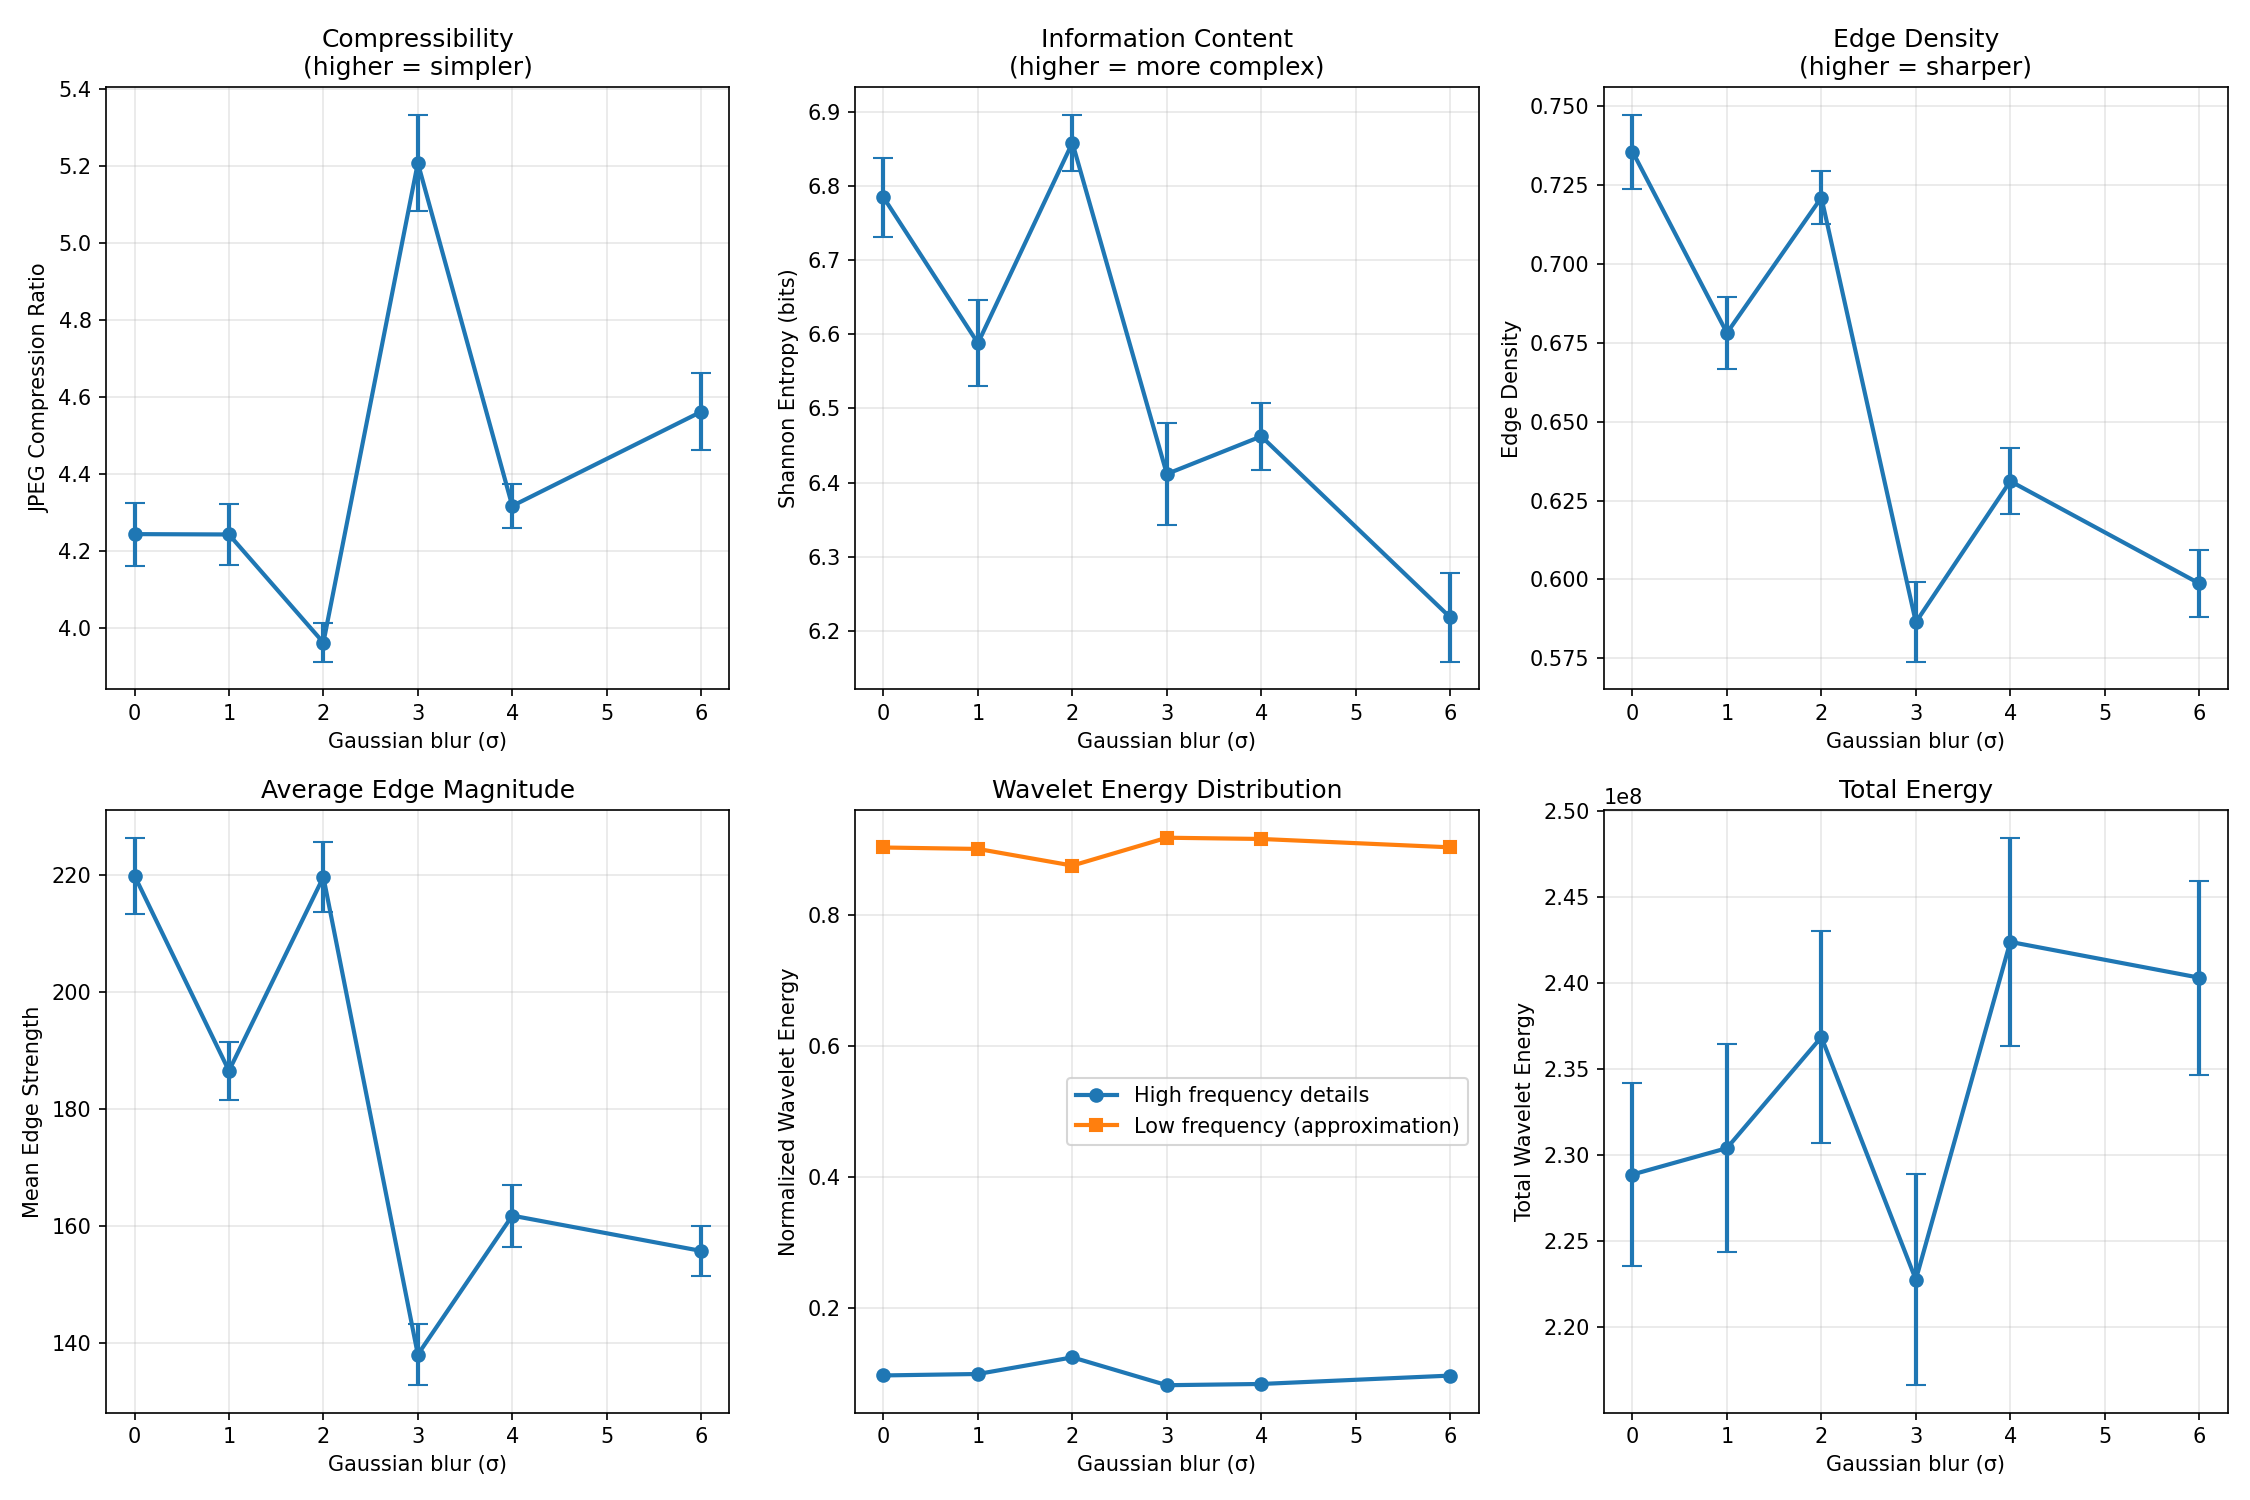
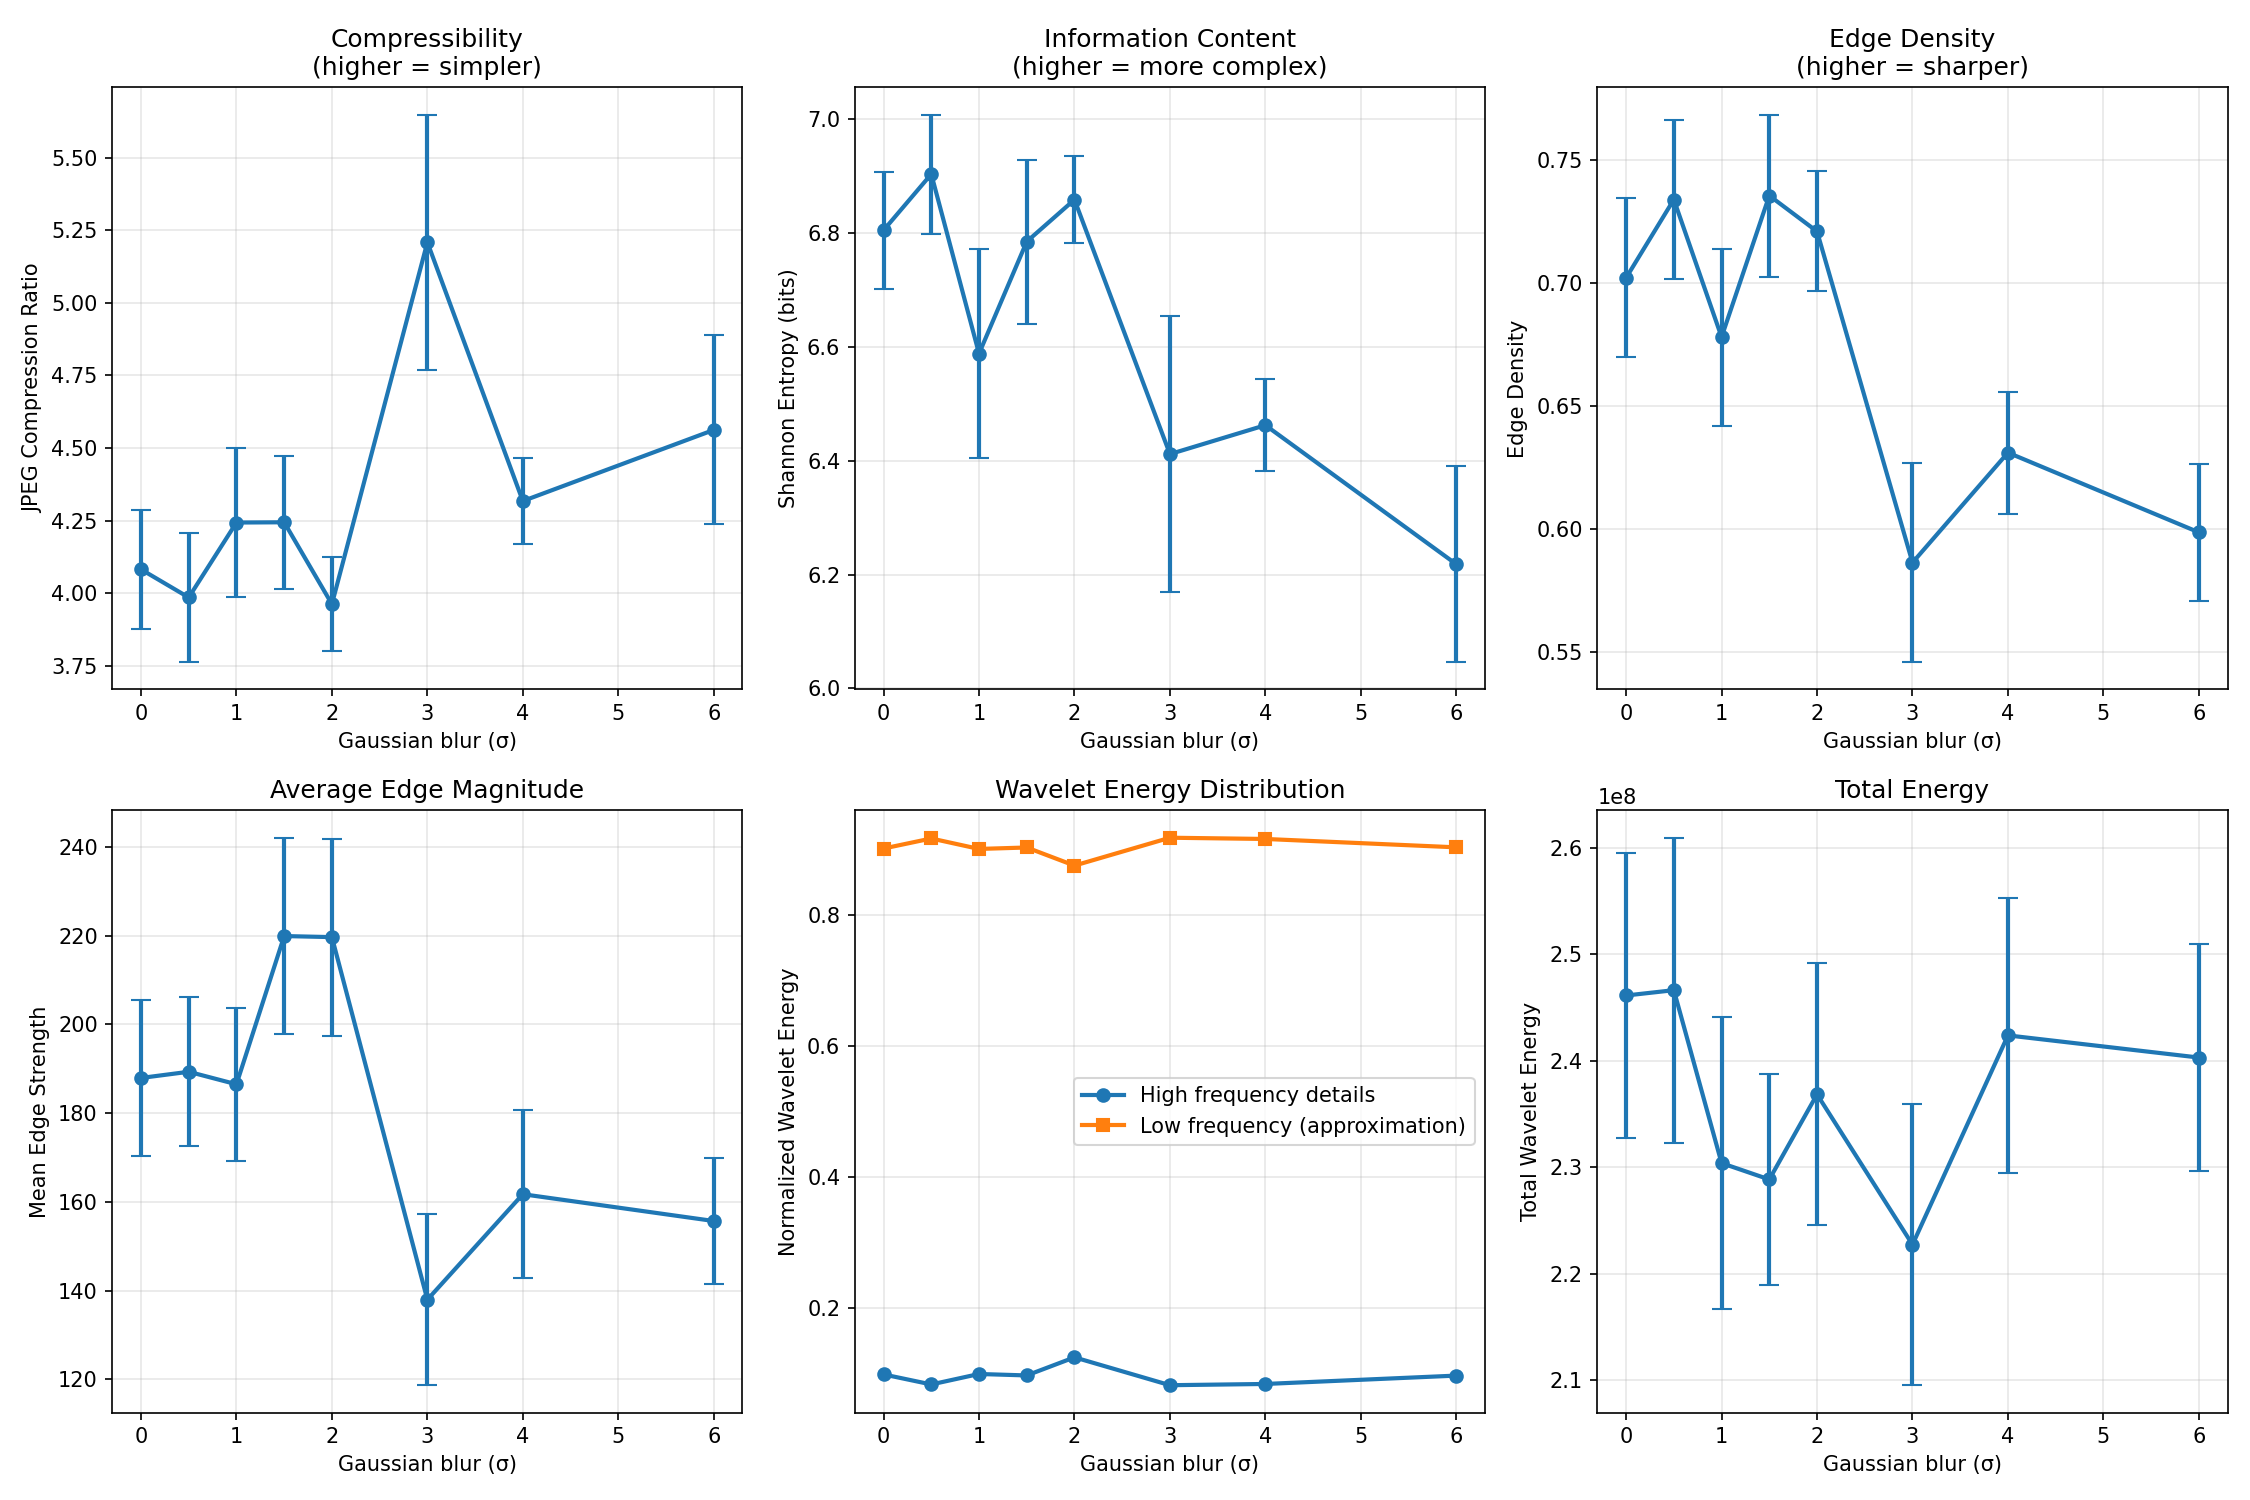
updating reports and bootstrapping

diff --git a/inner_fvis/analyze_patch_spectra.py b/inner_fvis/analyze_patch_spectra.py
@@ -316,7 +316,8 @@ def analyze_patch_complexity(image):
     
     return results
 
-def aggregate_complexity_measures(complexity_list, use_bootstrap=True, n_bootstrap=1000):
+def aggregate_complexity_measures(complexity_list, use_bootstrap=True, n_bootstrap=1000, 
+                                 neuron_grouped=None):
     """
     Aggregate complexity measures across multiple patches.
     
@@ -324,6 +325,9 @@ def aggregate_complexity_measures(complexity_list, use_bootstrap=True, n_bootstr
         complexity_list: List of complexity dictionaries from analyze_patch_complexity
         use_bootstrap: If True, use bootstrap SEM; if False, use traditional SEM
         n_bootstrap: Number of bootstrap iterations
+        neuron_grouped: Optional list of lists, where each sublist contains complexity measures
+                       from patches of a single neuron. If provided, bootstrap resampling
+                       is done at the neuron level (more conservative).
     
     Returns:
         Dictionary with mean and SEM of each measure
@@ -339,8 +343,17 @@ def aggregate_complexity_measures(complexity_list, use_bootstrap=True, n_bootstr
         values = np.array([c[key] for c in complexity_list])
         summary[f'{key}_mean'] = np.mean(values)
         
-        if use_bootstrap:
-            # Bootstrap SEM
+        if use_bootstrap and neuron_grouped is not None:
+            # Neuron-level bootstrap: resample neurons, not individual patches
+            # This accounts for correlation within neurons
+            boot_sem, ci_lower, ci_upper = bootstrap_neuron_level(
+                neuron_grouped, key, n_bootstrap=n_bootstrap
+            )
+            summary[f'{key}_sem'] = boot_sem
+            summary[f'{key}_ci_lower'] = ci_lower
+            summary[f'{key}_ci_upper'] = ci_upper
+        elif use_bootstrap:
+            # Patch-level bootstrap (original method, likely underestimates SE)
             boot_sem, ci_lower, ci_upper = bootstrap_sem(values.reshape(-1, 1), n_bootstrap=n_bootstrap)
             summary[f'{key}_sem'] = boot_sem[0]
             summary[f'{key}_ci_lower'] = ci_lower[0]
@@ -358,7 +371,17 @@ def aggregate_complexity_measures(complexity_list, use_bootstrap=True, n_bootstr
         values = np.array([c['wavelet_energy_distribution'][wkey] for c in complexity_list])
         summary[f'wavelet_{wkey}_mean'] = np.mean(values)
         
-        if use_bootstrap:
+        if use_bootstrap and neuron_grouped is not None:
+            # Neuron-level bootstrap
+            boot_sem, ci_lower, ci_upper = bootstrap_neuron_level(
+                neuron_grouped, f'wavelet_{wkey}', n_bootstrap=n_bootstrap, 
+                is_wavelet=True
+            )
+            summary[f'wavelet_{wkey}_sem'] = boot_sem
+            summary[f'wavelet_{wkey}_ci_lower'] = ci_lower
+            summary[f'wavelet_{wkey}_ci_upper'] = ci_upper
+        elif use_bootstrap:
+            # Patch-level bootstrap
             boot_sem, ci_lower, ci_upper = bootstrap_sem(values.reshape(-1, 1), n_bootstrap=n_bootstrap)
             summary[f'wavelet_{wkey}_sem'] = boot_sem[0]
             summary[f'wavelet_{wkey}_ci_lower'] = ci_lower[0]
@@ -369,6 +392,59 @@ def aggregate_complexity_measures(complexity_list, use_bootstrap=True, n_bootstr
         summary[f'wavelet_{wkey}_std'] = np.std(values)
     
     return summary
+
+def bootstrap_neuron_level(neuron_grouped, measure_key, n_bootstrap=1000, 
+                           confidence=95, is_wavelet=False):
+    """
+    Bootstrap resampling at the neuron level to account for within-neuron correlation.
+    
+    Args:
+        neuron_grouped: List of lists, where each sublist contains complexity measures
+                       from patches of a single neuron
+        measure_key: The key of the measure to bootstrap (e.g., 'entropy')
+        n_bootstrap: Number of bootstrap iterations
+        confidence: Confidence level for intervals (default 95%)
+        is_wavelet: If True, extract from wavelet_energy_distribution
+    
+    Returns:
+        bootstrap_sem: Standard error of the mean from bootstrap
+        ci_lower: Lower confidence interval
+        ci_upper: Upper confidence interval
+    """
+    n_neurons = len(neuron_grouped)
+    bootstrap_means = []
+    
+    # Perform bootstrap resampling at neuron level
+    for _ in range(n_bootstrap):
+        # Resample neurons with replacement
+        neuron_indices = np.random.choice(n_neurons, size=n_neurons, replace=True)
+        
+        # Collect all patches from the resampled neurons
+        bootstrap_values = []
+        for idx in neuron_indices:
+            neuron_patches = neuron_grouped[idx]
+            for patch_measure in neuron_patches:
+                if is_wavelet:
+                    # Extract wavelet key (remove 'wavelet_' prefix)
+                    wkey = measure_key.replace('wavelet_', '')
+                    bootstrap_values.append(patch_measure['wavelet_energy_distribution'][wkey])
+                else:
+                    bootstrap_values.append(patch_measure[measure_key])
+        
+        # Calculate mean for this bootstrap sample
+        bootstrap_means.append(np.mean(bootstrap_values))
+    
+    bootstrap_means = np.array(bootstrap_means)
+    
+    # Calculate bootstrap SEM
+    bootstrap_sem = np.std(bootstrap_means)
+    
+    # Calculate confidence intervals
+    alpha = (100 - confidence) / 2
+    ci_lower = np.percentile(bootstrap_means, alpha)
+    ci_upper = np.percentile(bootstrap_means, 100 - alpha)
+    
+    return bootstrap_sem, ci_lower, ci_upper
 
 def analyze_neuron_patches(base_dir, neuron_idx, output_dir=None):
     """
@@ -915,12 +991,19 @@ def compare_models_complexity(model_dirs, model_names=None, neuron_indices=None,
     
     # Extract g values for x-axis
     g_values = []
-    for name in model_names:
-        g_str = extract_g_value(name)
+    for i, model_dir in enumerate(model_dirs):
+        # Extract from directory path, not from model_names which might be simple strings
+        model_path_name = Path(model_dir).parent.name
+        g_str = extract_g_value(model_path_name)
         try:
             g_val = float(g_str)
         except (ValueError, TypeError):
-            g_val = 0.0
+            # Fallback: if model_names was passed as simple strings like '0pt5'
+            g_str_fallback = model_names[i].replace('pt', '.')
+            try:
+                g_val = float(g_str_fallback)
+            except (ValueError, TypeError):
+                g_val = 0.0
         g_values.append(g_val)
     
     # Collect complexity measures for each model
@@ -937,18 +1020,28 @@ def compare_models_complexity(model_dirs, model_names=None, neuron_indices=None,
         else:
             indices = neuron_indices
         
-        # Collect all complexity measures
+        # Collect complexity measures grouped by neuron
+        # This preserves the hierarchical structure for neuron-level bootstrap
+        neuron_grouped_measures = []
         all_measures = []
         for neuron_idx in indices:
             try:
                 results = analyze_neuron_patches(model_dir, neuron_idx)
-                all_measures.extend(results['complexity_measures'])
+                neuron_measures = results['complexity_measures']
+                neuron_grouped_measures.append(neuron_measures)
+                all_measures.extend(neuron_measures)
             except FileNotFoundError:
                 continue
         
         # Aggregate across all patches and neurons
+        # Pass neuron_grouped to enable neuron-level bootstrap
         if all_measures:
-            agg = aggregate_complexity_measures(all_measures)
+            agg = aggregate_complexity_measures(
+                all_measures, 
+                use_bootstrap=True, 
+                n_bootstrap=1000,
+                neuron_grouped=neuron_grouped_measures
+            )
             model_complexities[g_val] = agg
     
     # Sort by g value for plotting

diff --git a/inner_fvis/ANALYSIS_REPORT.md b/inner_fvis/ANALYSIS_REPORT.md
@@ -11,11 +11,12 @@ This report analyzes how training ResNet-50 models with different levels of Gaus
 **Section 1: Feature Visualizations**
 - Figure 1.1: Layer 3.2 Neuron Features Across Blur Levels
 - Figure 1.2: Layer 4.2 Neuron Features Across Blur Levels
-- Figure 1.3: Representative Individual Neurons
+- Figure 1.3a: Representative Neurons - Layer 2.2 (Early Features)
+- Figure 1.3b: Representative Neurons - Layer 3.2 (Mid-Level Features)
+- Figure 1.3c: Representative Neurons - Layer 4.2 (High-Level Features)
 
 **Section 2: Spectral Analysis**
-- Figure 2.1: Averaged Power Spectra Across Models
-- Figure 2.2: Power Spectra Relative to ImageNet Baseline
+- Figure 2.1: Power Spectra Relative to ImageNet Baseline
 
 **Section 3: Complexity Analysis**
 - Figure 3.1: Multi-Dimensional Complexity Comparison
@@ -70,9 +71,17 @@ We used feature visualization techniques to identify which image patches maximal
 
 Shows detailed examples of individual neurons across blur conditions, highlighting the transition from detail-selective to blur-tolerant feature detection.
 
-#### Figure 1.3: Representative Individual Neurons
-![Representative Neurons Grid](all_neurons_grid.png)
-*Selected representative neurons showing the systematic shift in feature preferences with increasing training blur.*
+#### Figure 1.3a: Representative Neurons - Layer 2.2 (Early Features)
+![Representative Neurons Grid - Layer 2.2](representative_neurons_grid_layer2.2.png)
+*Selected representative neurons from layer 2.2 showing the systematic shift in early feature preferences with increasing training blur.*
+
+#### Figure 1.3b: Representative Neurons - Layer 3.2 (Mid-Level Features)
+![Representative Neurons Grid - Layer 3.2](representative_neurons_grid_layer3.2.png)
+*Selected representative neurons from layer 3.2 showing the systematic shift in mid-level feature preferences with increasing training blur.*
+
+#### Figure 1.3c: Representative Neurons - Layer 4.2 (High-Level Features)
+![Representative Neurons Grid - Layer 4.2](representative_neurons_grid_layer4.2.png)
+*Selected representative neurons from layer 4.2 showing the systematic shift in high-level feature preferences with increasing training blur.*
 
 ---
 
@@ -84,47 +93,12 @@ We performed 2D Fourier analysis on the preferred patches of each neuron to quan
 
 1. **2D Power Spectrum:** Full frequency decomposition
 2. **Radial Averaging:** 1D power spectrum as a function of spatial frequency
-3. **Baseline Comparison:** Relative to random ImageNet patches
-4. **Bootstrap Statistics:** Robust error estimation (1000 iterations)
+3. **Baseline Comparison:** Relative to random ImageNet patches (8000 patches from 500 images)
+4. **Bootstrap Statistics:** Neuron-level resampling (1000 iterations) to account for within-neuron correlation. Because the 16 patches from each neuron are correlated (they all represent that neuron's preferences), we resample entire neurons rather than individual patches, providing more conservative and realistic error estimates
 
-### 2.2 Absolute Power Spectra
+### 2.2 Power Spectra Relative to ImageNet Baseline
 
-#### Figure 2.1: Averaged Power Spectra Across Models
-
-**Layer 2.2 (Early Layer):**
-![Models Averaged Power Spectra Comparison - Layer 2.2](spectra_analysis/models_averaged_comparison_layer2.2.png)
-
-**Layer 3.2 (Mid Layer):**
-![Models Averaged Power Spectra Comparison - Layer 3.2](spectra_analysis/models_averaged_comparison_layer3.2.png)
-
-**Layer 4.2 (Late Layer):**
-![Models Averaged Power Spectra Comparison - Layer 4.2](spectra_analysis/models_averaged_comparison_layer4.2.png)
-
-*Radially averaged power spectra for each model across different layers, showing the distribution of frequency content in preferred patches. Error bands represent bootstrap SEM (n=1000).*
-
-**Key Findings:**
-
-1. **Power-law Behavior:** All models show approximate 1/f^α fall-off characteristic of natural images
-
-2. **Low Frequency (< 0.1 cycles/pixel):**
-   - Models trained with higher blur (σ = 4-6) show elevated power
-   - Indicates preference for large-scale structure
-
-3. **Mid Frequency (0.1-0.5 cycles/pixel):**
-   - σ = 0-2 models maintain high power in this range
-   - σ = 3-6 models show progressive reduction
-   - This range corresponds to object-level features
-
-4. **High Frequency (> 0.5 cycles/pixel):**
-   - Sharp drop-off for all models
-   - σ = 0 maintains highest high-frequency power
-   - σ = 6 shows near-complete suppression of fine details
-
-5. **Ordering:** Clear monotonic relationship between training blur and frequency preference
-
-### 2.3 Relative to Baseline
-
-#### Figure 2.2: Power Spectra Relative to ImageNet Baseline
+#### Figure 2.1: Power Spectra Relative to ImageNet Baseline
 
 **Layer 2.2 (Early Layer):**
 ![Models Relative to Baseline - Layer 2.2](spectra_analysis/models_relative_to_baseline_layer2.2.png)
@@ -171,10 +145,10 @@ We quantified multiple dimensions of visual complexity using:
 2. **Shannon Entropy:** Information content in pixel values (higher = more complex/random)
 3. **Edge Density:** Proportion of edge pixels via Sobel filtering
 4. **Mean Edge Strength:** Average gradient magnitude
-5. **Wavelet Analysis:** Multi-scale, multi-orientation energy decomposition
+5. **Wavelet Analysis:** Multi-scale, multi-orientation energy decomposition (Daubechies-4 wavelet, 3 levels)
 6. **Total Wavelet Energy:** Overall signal energy
 
-All measures include bootstrap standard errors (1000 iterations) for robust uncertainty estimation.
+**Statistical Analysis:** All measures include bootstrap standard errors (1000 iterations) calculated at the **neuron level** rather than the patch level. This approach is critical because the 16 patches from each neuron are not independent—they all represent variations of that neuron's preferred features and are therefore correlated. By resampling entire neurons (with all their patches) rather than individual patches, we properly account for this hierarchical data structure and avoid underestimating the true uncertainty. This neuron-level bootstrap provides more conservative and statistically appropriate error estimates.
 
 ### 3.2 Results
 
